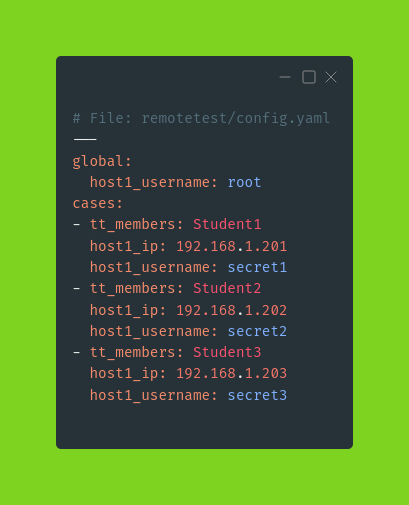
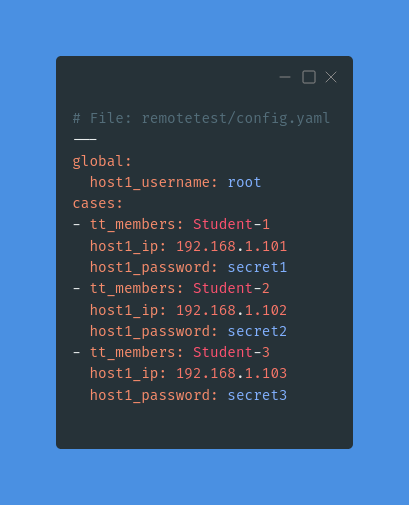
[U] .

diff --git a/charlas/teuton/eslibre22/examples/remotetest/startrb.rb b/charlas/teuton/eslibre22/examples/remotetest/startrb.rb
@@ -1,0 +1,12 @@
+# File: remotetest/start.rb
+group "Remote test" do
+  target "Existe el usuario Obiwan"
+  run "id Obiwan", on: :host1
+  expect "Obiwan"
+end
+
+play do
+  show
+  export format: :html
+  send copy_to: :host1
+end

diff --git a/charlas/teuton/eslibre22/examples/demo/start.rb b/charlas/teuton/eslibre22/examples/demo/start.rb
@@ -1,0 +1,13 @@
+
+group "GROUP NAME" do
+
+  target "TARGET.1 DESCRIPTION"
+  run "COMMAND.1"
+  expect "TEXT.1"
+
+end
+
+play do
+  show
+  export
+end

diff --git a/charlas/teuton/eslibre22/examples/localtest/startrb.rb b/charlas/teuton/eslibre22/examples/localtest/startrb.rb
@@ -1,0 +1,6 @@
+# File: localtest/start.rb
+group "Local test" do
+  target "Existe el usuario Obiwan"
+  run "id Obiwan"
+  expect "Obiwan"
+end

diff --git a/charlas/teuton/eslibre22/eslibre22.md b/charlas/teuton/eslibre22/eslibre22.md
@@ -100,7 +100,6 @@ Aplicar **tests para mantener la calidad** de...
 
 # 10. Instalar Teuton
 
-Instalar TEUTON:
 * Instalar Ruby
 * `gem install teuton`, instalar la gema
 
@@ -151,13 +150,42 @@ teuton remotetest
 
 ![](images/configyaml.png)
 
-# 16. Saber más
+```
+# File: remotetest/config.yaml
+---
+global:
+  host1_username: root
+cases:
+- tt_members: Student-1
+  host1_ip: 192.168.1.101
+  host1_password: secret1
+- tt_members: Student-2
+  host1_ip: 192.168.1.102
+  host1_password: secret2
+- tt_members: Student-3
+  host1_ip: 192.168.1.103
+  host1_password: secret3
+```
+
+# 16. Informes
+
+![](images/sendcopyto.png)
+
+```
+play do
+  show
+  export format: :html
+  send copy_to: :host1
+end
+```
+
+# 17. URLs
 
 * GitHub y docs: https://github.com/teuton-software/teuton
 * Rubygems: https://rubygems.org/gems/teuton
 * Ejemplos: https://github.com/dvarrui/teuton-tests
 
-# 17. Muchas Gracias
+# 18. Muchas Gracias
 
 * **Email**: teuton.software@protonmail.com
 * **Telegram**: "TEUTON Software"
